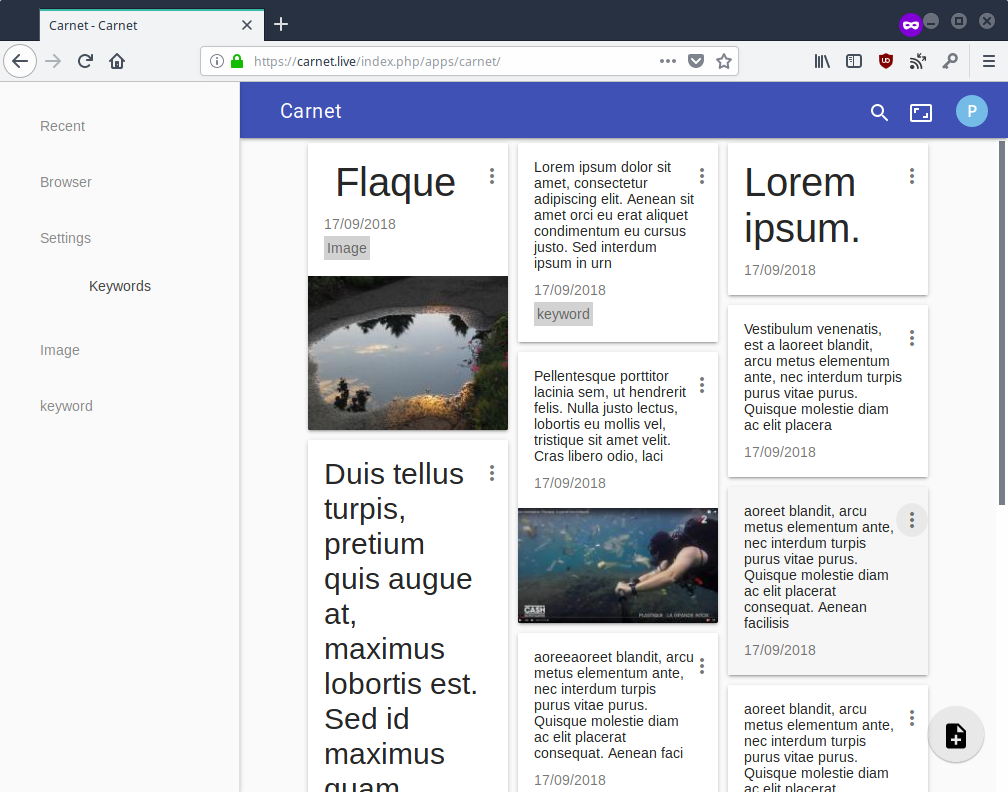
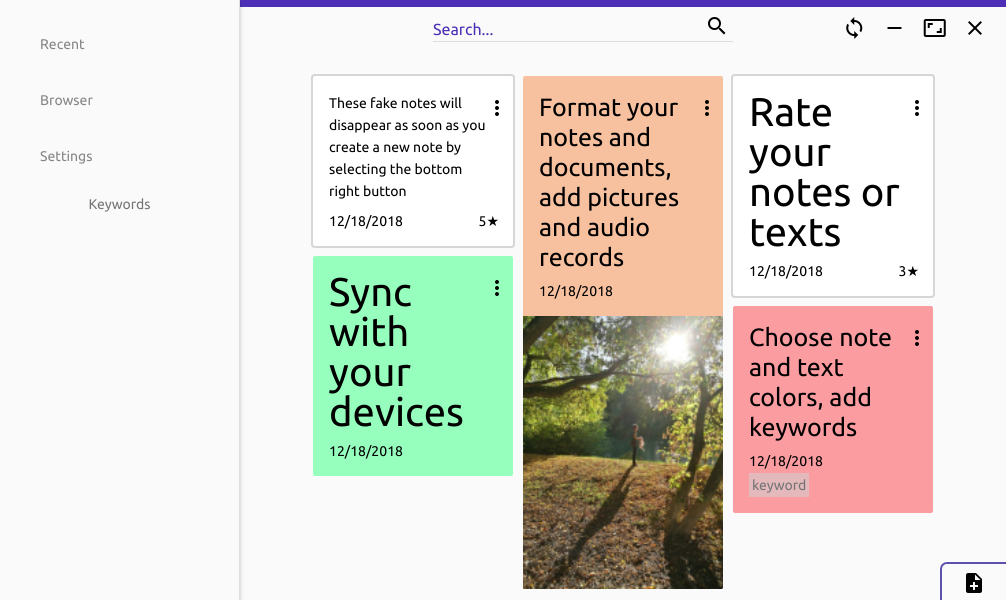
merge

diff --git a/README.md b/README.md
@@ -39,7 +39,9 @@ Be aware that this is still a beta version, I recommand not using Google Drive f
 - Protect the app with a pin code (won't encrypt notes) on android
 - Statistics : words/sentences/characters
 - Sync with Google Drive and NextCloud
-- Record audio
+- Audio recording
+- Dark theme
+- Note background color
 
 ## To come
 
@@ -61,8 +63,20 @@ https://carnet.live is nothing more than a nextcloud server, so select Nextcloud
 ### Notes overview
 
 
+Desktop
 
-![Desktop Overview](intro/overview.png)
+<img  src="intro/overview.png"  width="400"/>
+
+<br />
+
+Dark Theme
+
+<img  src="intro/overview-dark.png"  width="400"/>
+
+<br />
+
+Android
+
 
 <img  src="intro/overview-android.png" alt="android overview" width="300">
 
